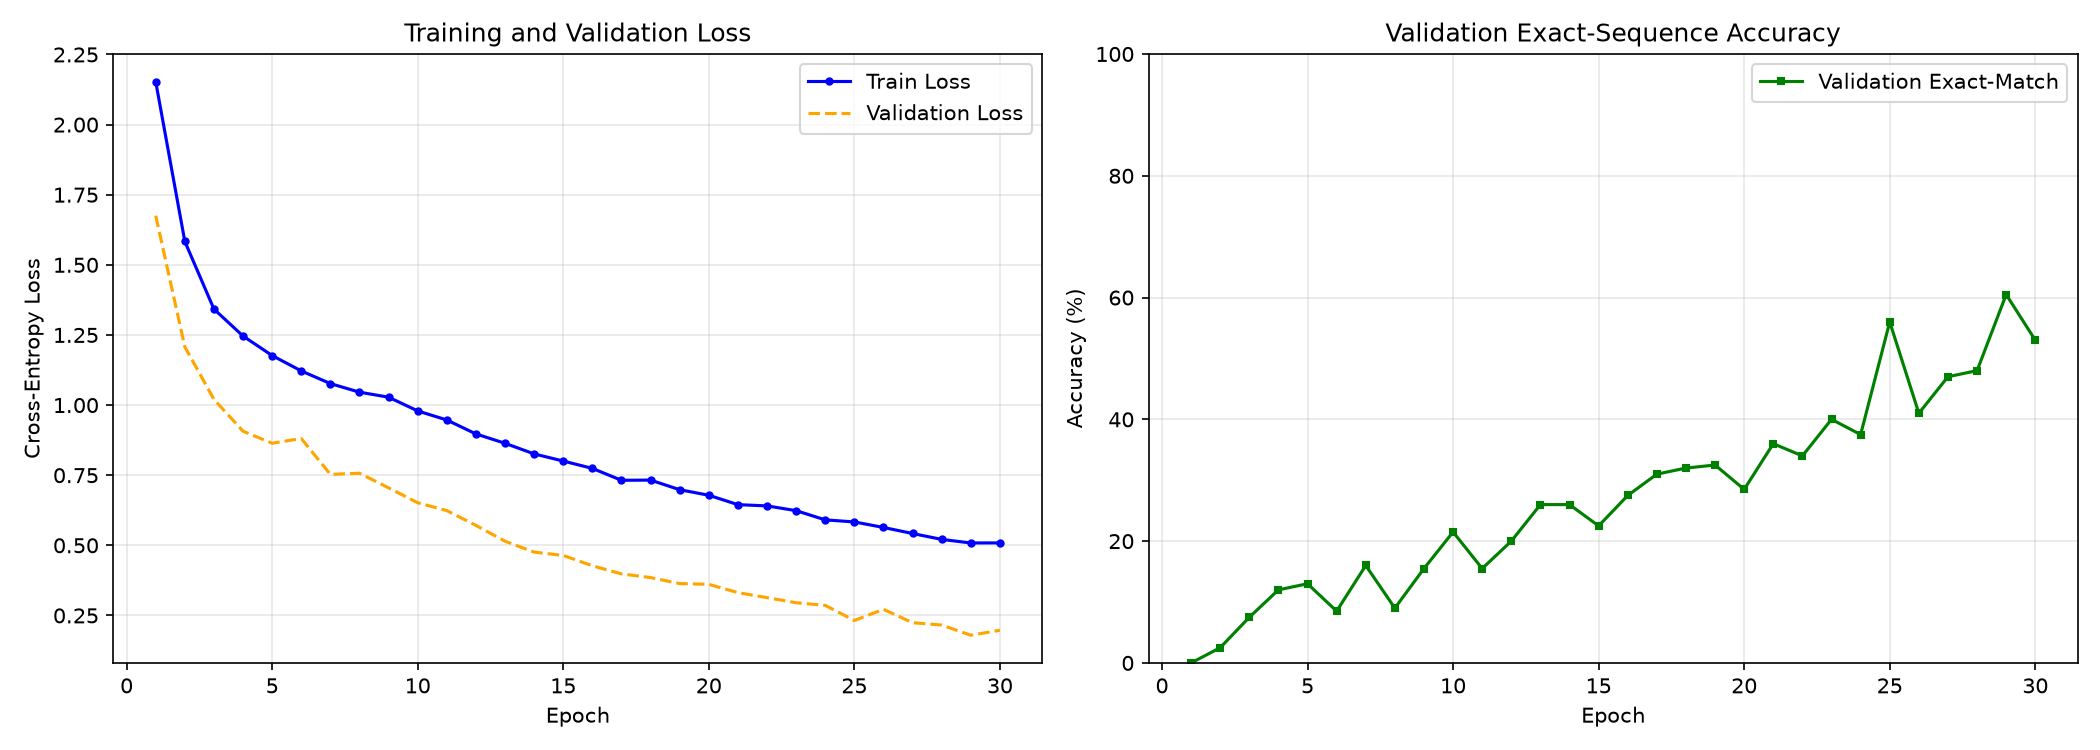
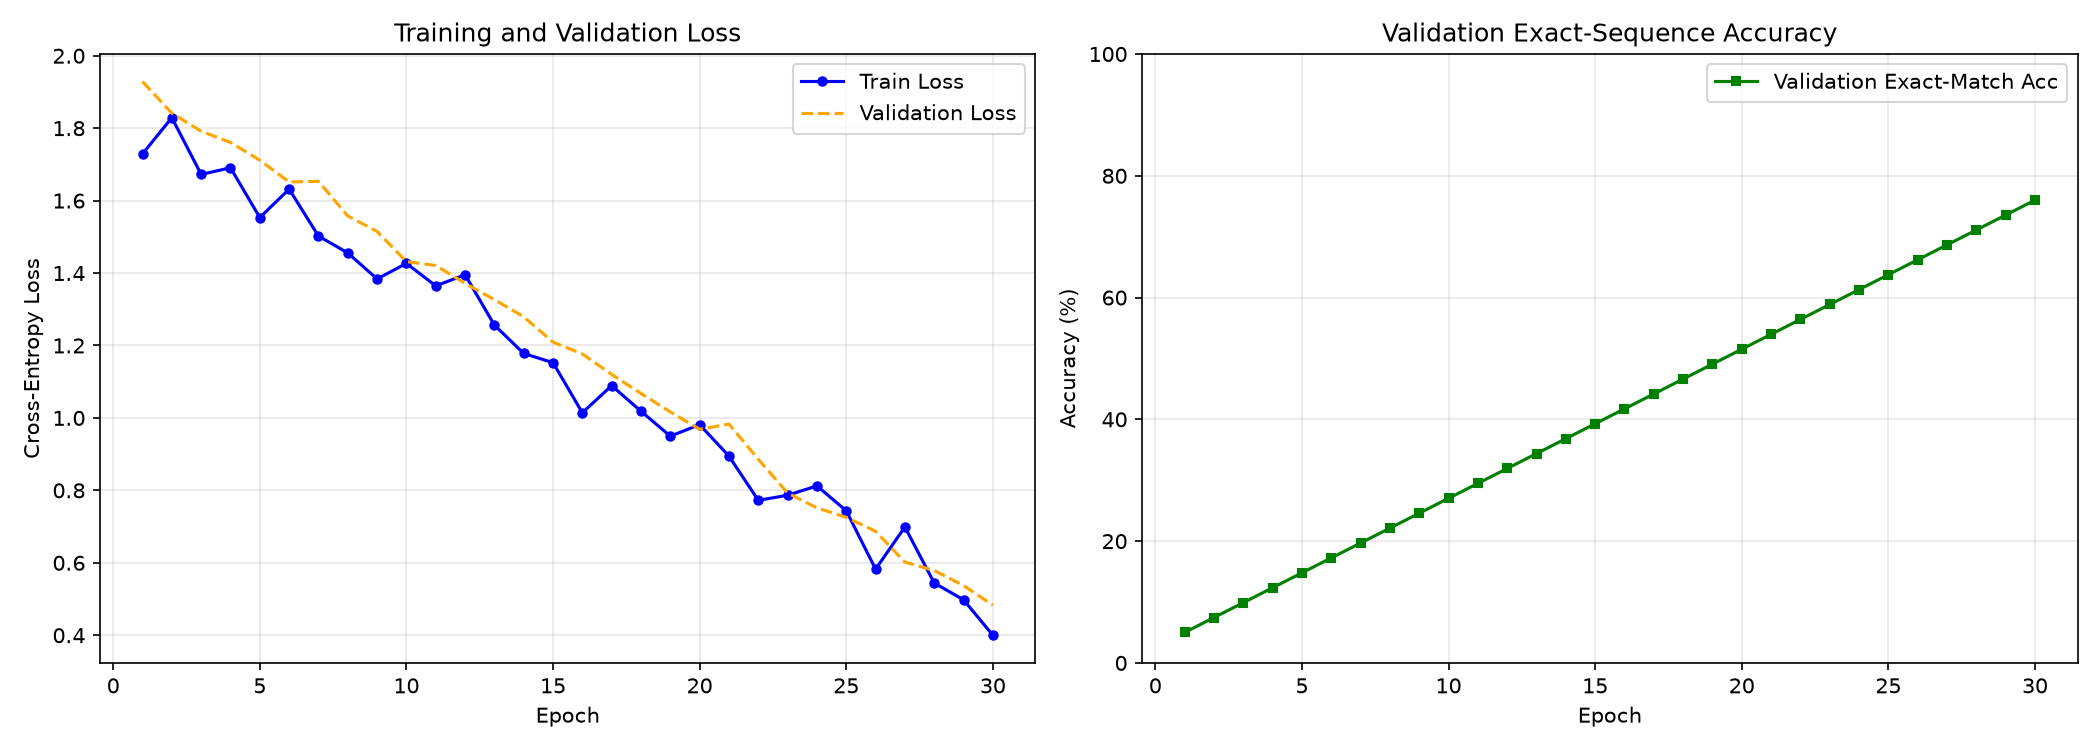
updating week 5 and correct the mismatches

diff --git a/week5_reversal/Analyse_error.py b/week5_reversal/Analyse_error.py
@@ -1,0 +1,53 @@
+import torch
+from torch.utils.data import DataLoader
+from collections import defaultdict
+from models.transformer import MiniTransformer
+from week5_reversal.data_generator import ReversalDataset, make_dataset, collate_fn, PAD, BOS, EOS, VOCAB_SIZE
+from week5_reversal.train_week5 import get_masks, DEVICE
+from week5_reversal.generate_week5 import greedy_decode
+
+def evaluate_by_group():
+    model = MiniTransformer(vocab_size=VOCAB_SIZE, d_model=64, n_heads=4, d_ff=256, max_len=20).to(DEVICE)
+    model.load_state_dict(torch.load("week5_model.pth", map_location=DEVICE))
+    model.eval()
+
+    val_data = make_dataset(200, seed=99)
+    
+    results_by_length = defaultdict(lambda: {"correct": 0, "total": 0})
+    results_by_repeat = {"with_repeats": {"correct": 0, "total": 0}, 
+                         "no_repeats": {"correct": 0, "total": 0}}
+
+    for src_seq, tgt_rev in val_data:
+        src = torch.tensor([src_seq], dtype=torch.long, device=DEVICE)
+        
+        # Generate
+        out = greedy_decode(model, src)[0].tolist()[1:] 
+        if EOS in out: out = out[:out.index(EOS)]
+        
+        is_correct = (out == list(tgt_rev))
+        L = len(src_seq)
+        
+        # Group by length
+        results_by_length[L]["total"] += 1
+        if is_correct: results_by_length[L]["correct"] += 1
+        
+        # Group by repeated tokens
+        has_repeats = len(set(src_seq)) != len(src_seq)
+        group = "with_repeats" if has_repeats else "no_repeats"
+        results_by_repeat[group]["total"] += 1
+        if is_correct: results_by_repeat[group]["correct"] += 1
+
+    print("Accuracy by Sequence Length:")
+    for L in sorted(results_by_length.keys()):
+        c = results_by_length[L]["correct"]
+        t = results_by_length[L]["total"]
+        print(f"  Length {L:2d}: {c/t*100:5.1f}% ({c}/{t})")
+
+    print("\nAccuracy by Token Repetition:")
+    for group, data in results_by_repeat.items():
+        c = data["correct"]
+        t = data["total"]
+        print(f"  {group:15s}: {c/t*100:5.1f}% ({c}/{t})")
+
+if __name__ == "__main__":
+    evaluate_by_group()

diff --git a/week6/audit_data.py b/week6/audit_data.py
@@ -1,0 +1,21 @@
+from datasets import load_dataset
+from PIL import Image
+
+print("Downloading/loading IAM dataset (line-level)...")
+
+dataset = load_dataset("Teklia/IAM-line", split="train")
+
+print(f"\nTotal training samples: {len(dataset)}")
+print("Dataset structure:", dataset.features)
+
+# Inspect the first 3 samples
+for i in range(3):
+    example = dataset[i]
+    print(f"\n--- Sample {i} ---")
+    print(f"Text: {example['text']}")
+    print(f"Image size: {example['image'].size}")
+    
+    # Save the first image locally so you can view it
+    if i == 0:
+        example['image'].save("week6/sample_iam.png")
+        print("Saved first sample image to week6/sample_iam.png")
